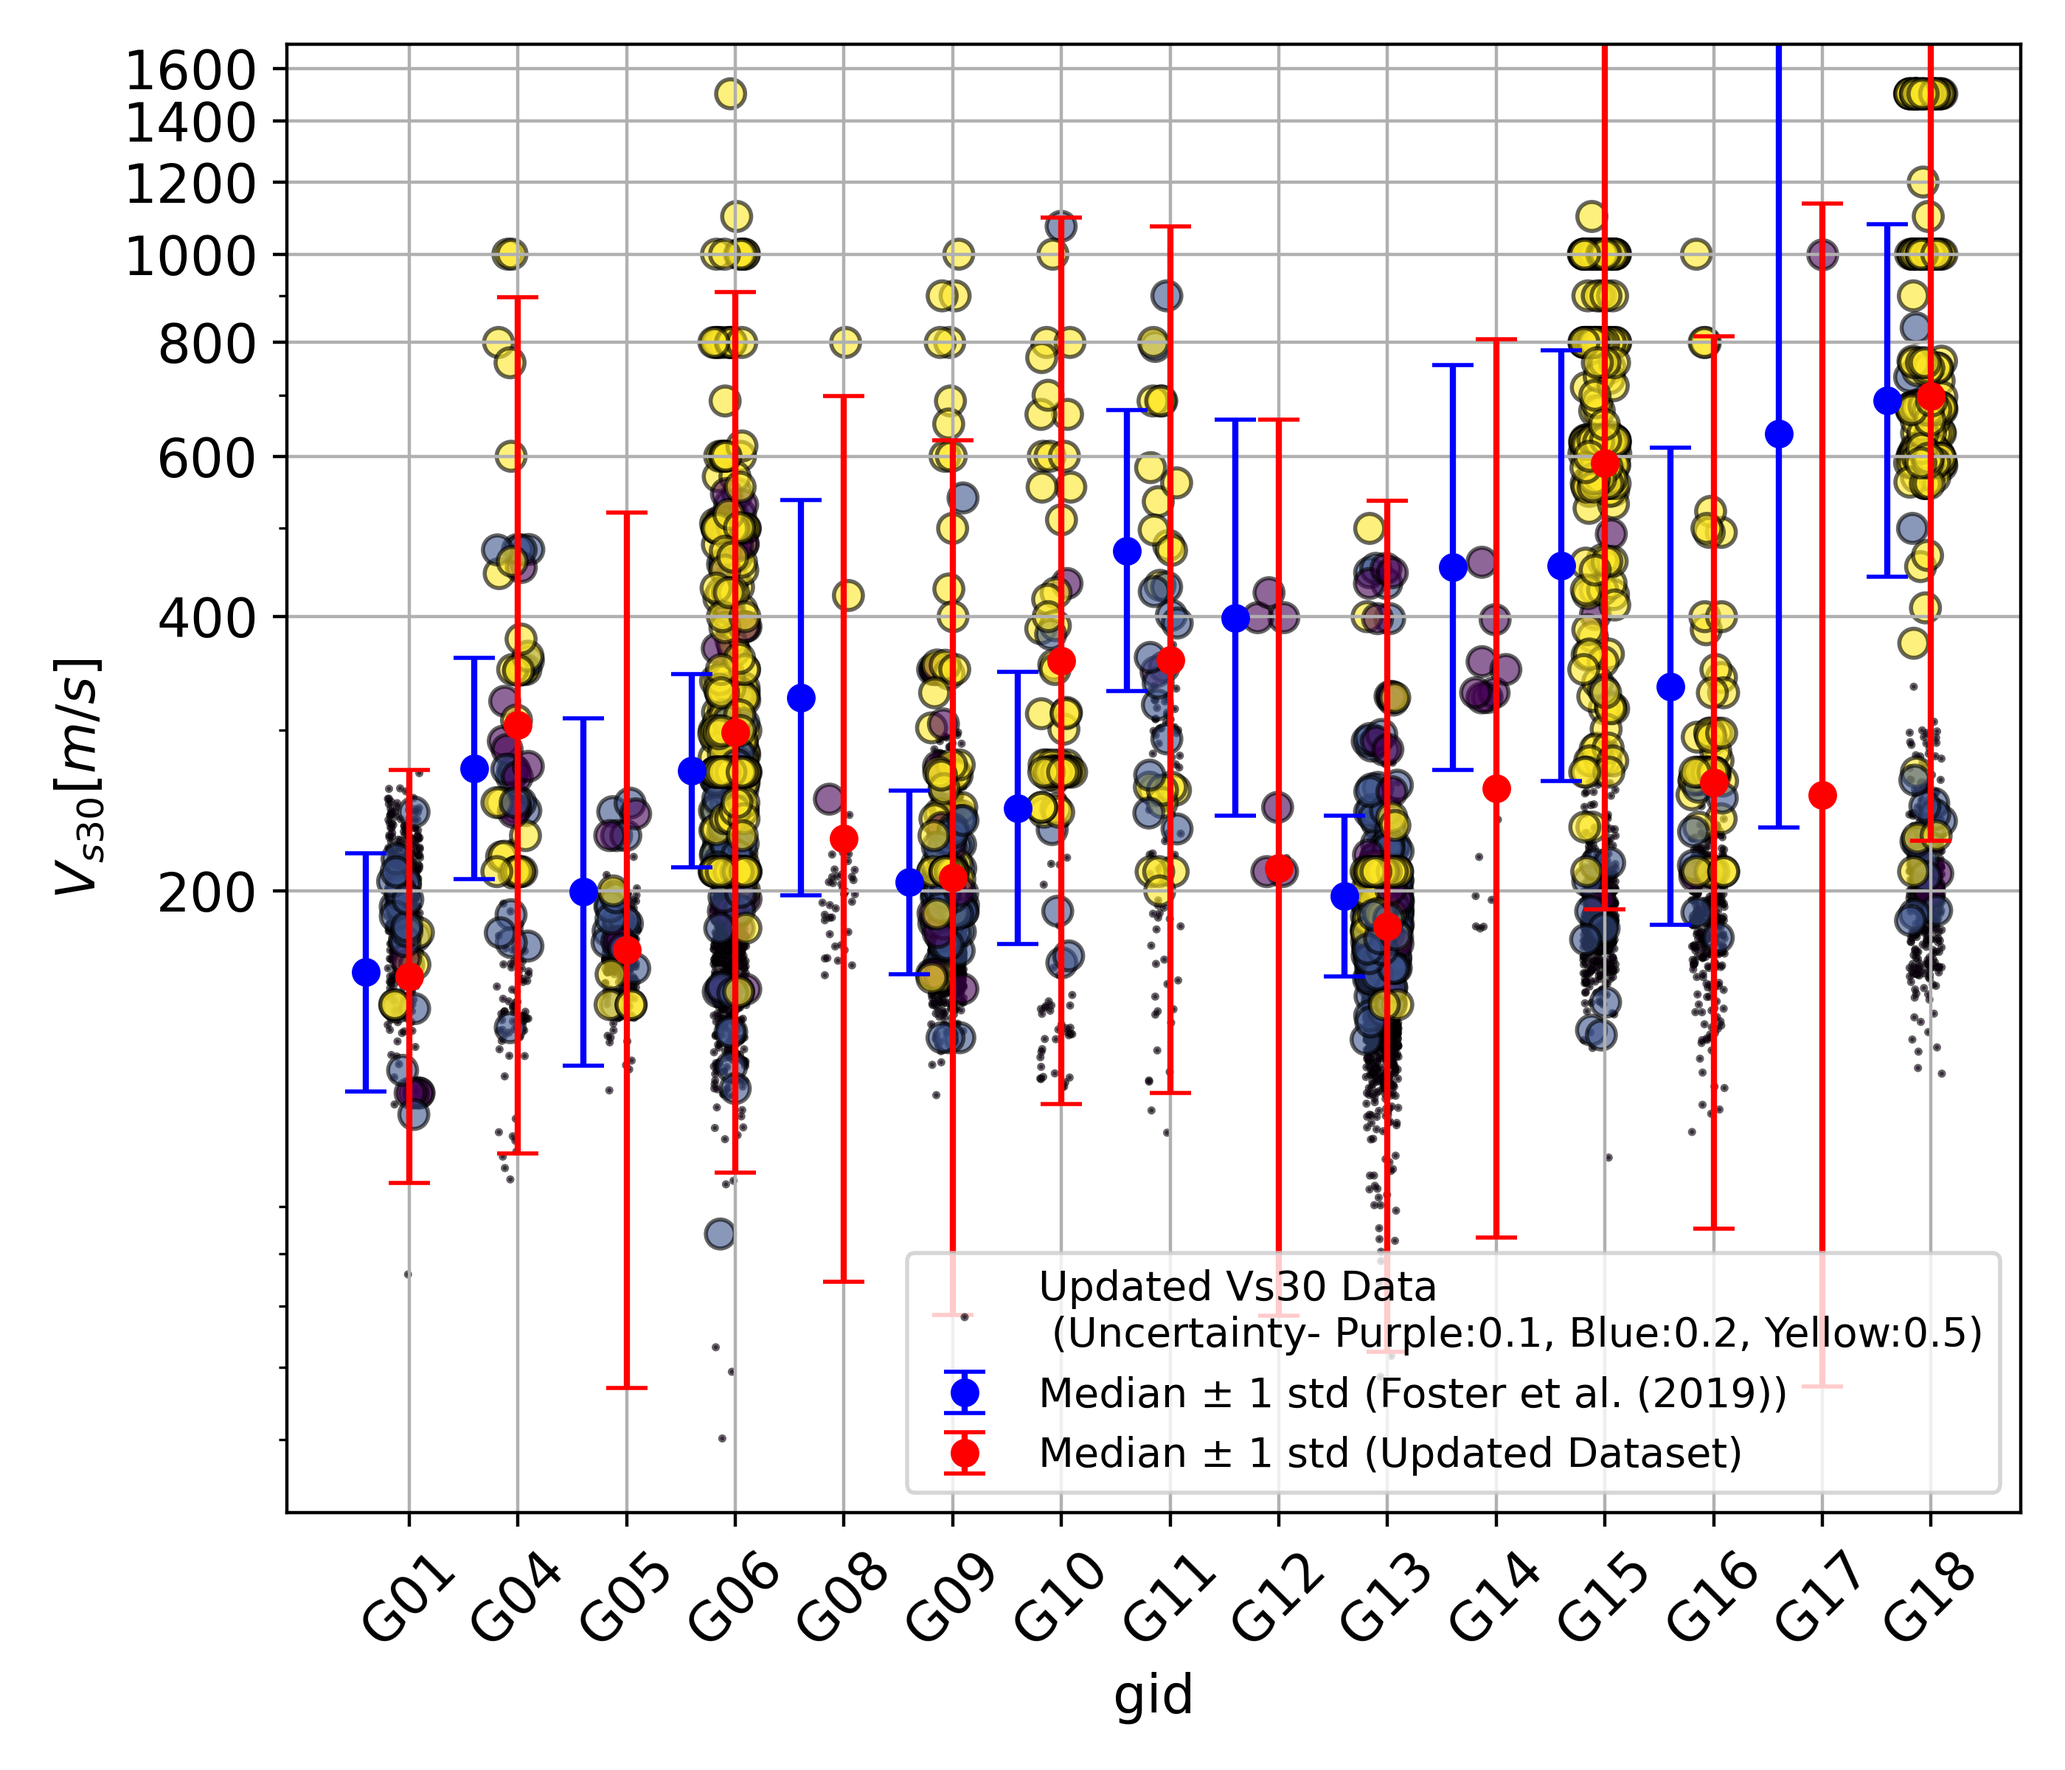
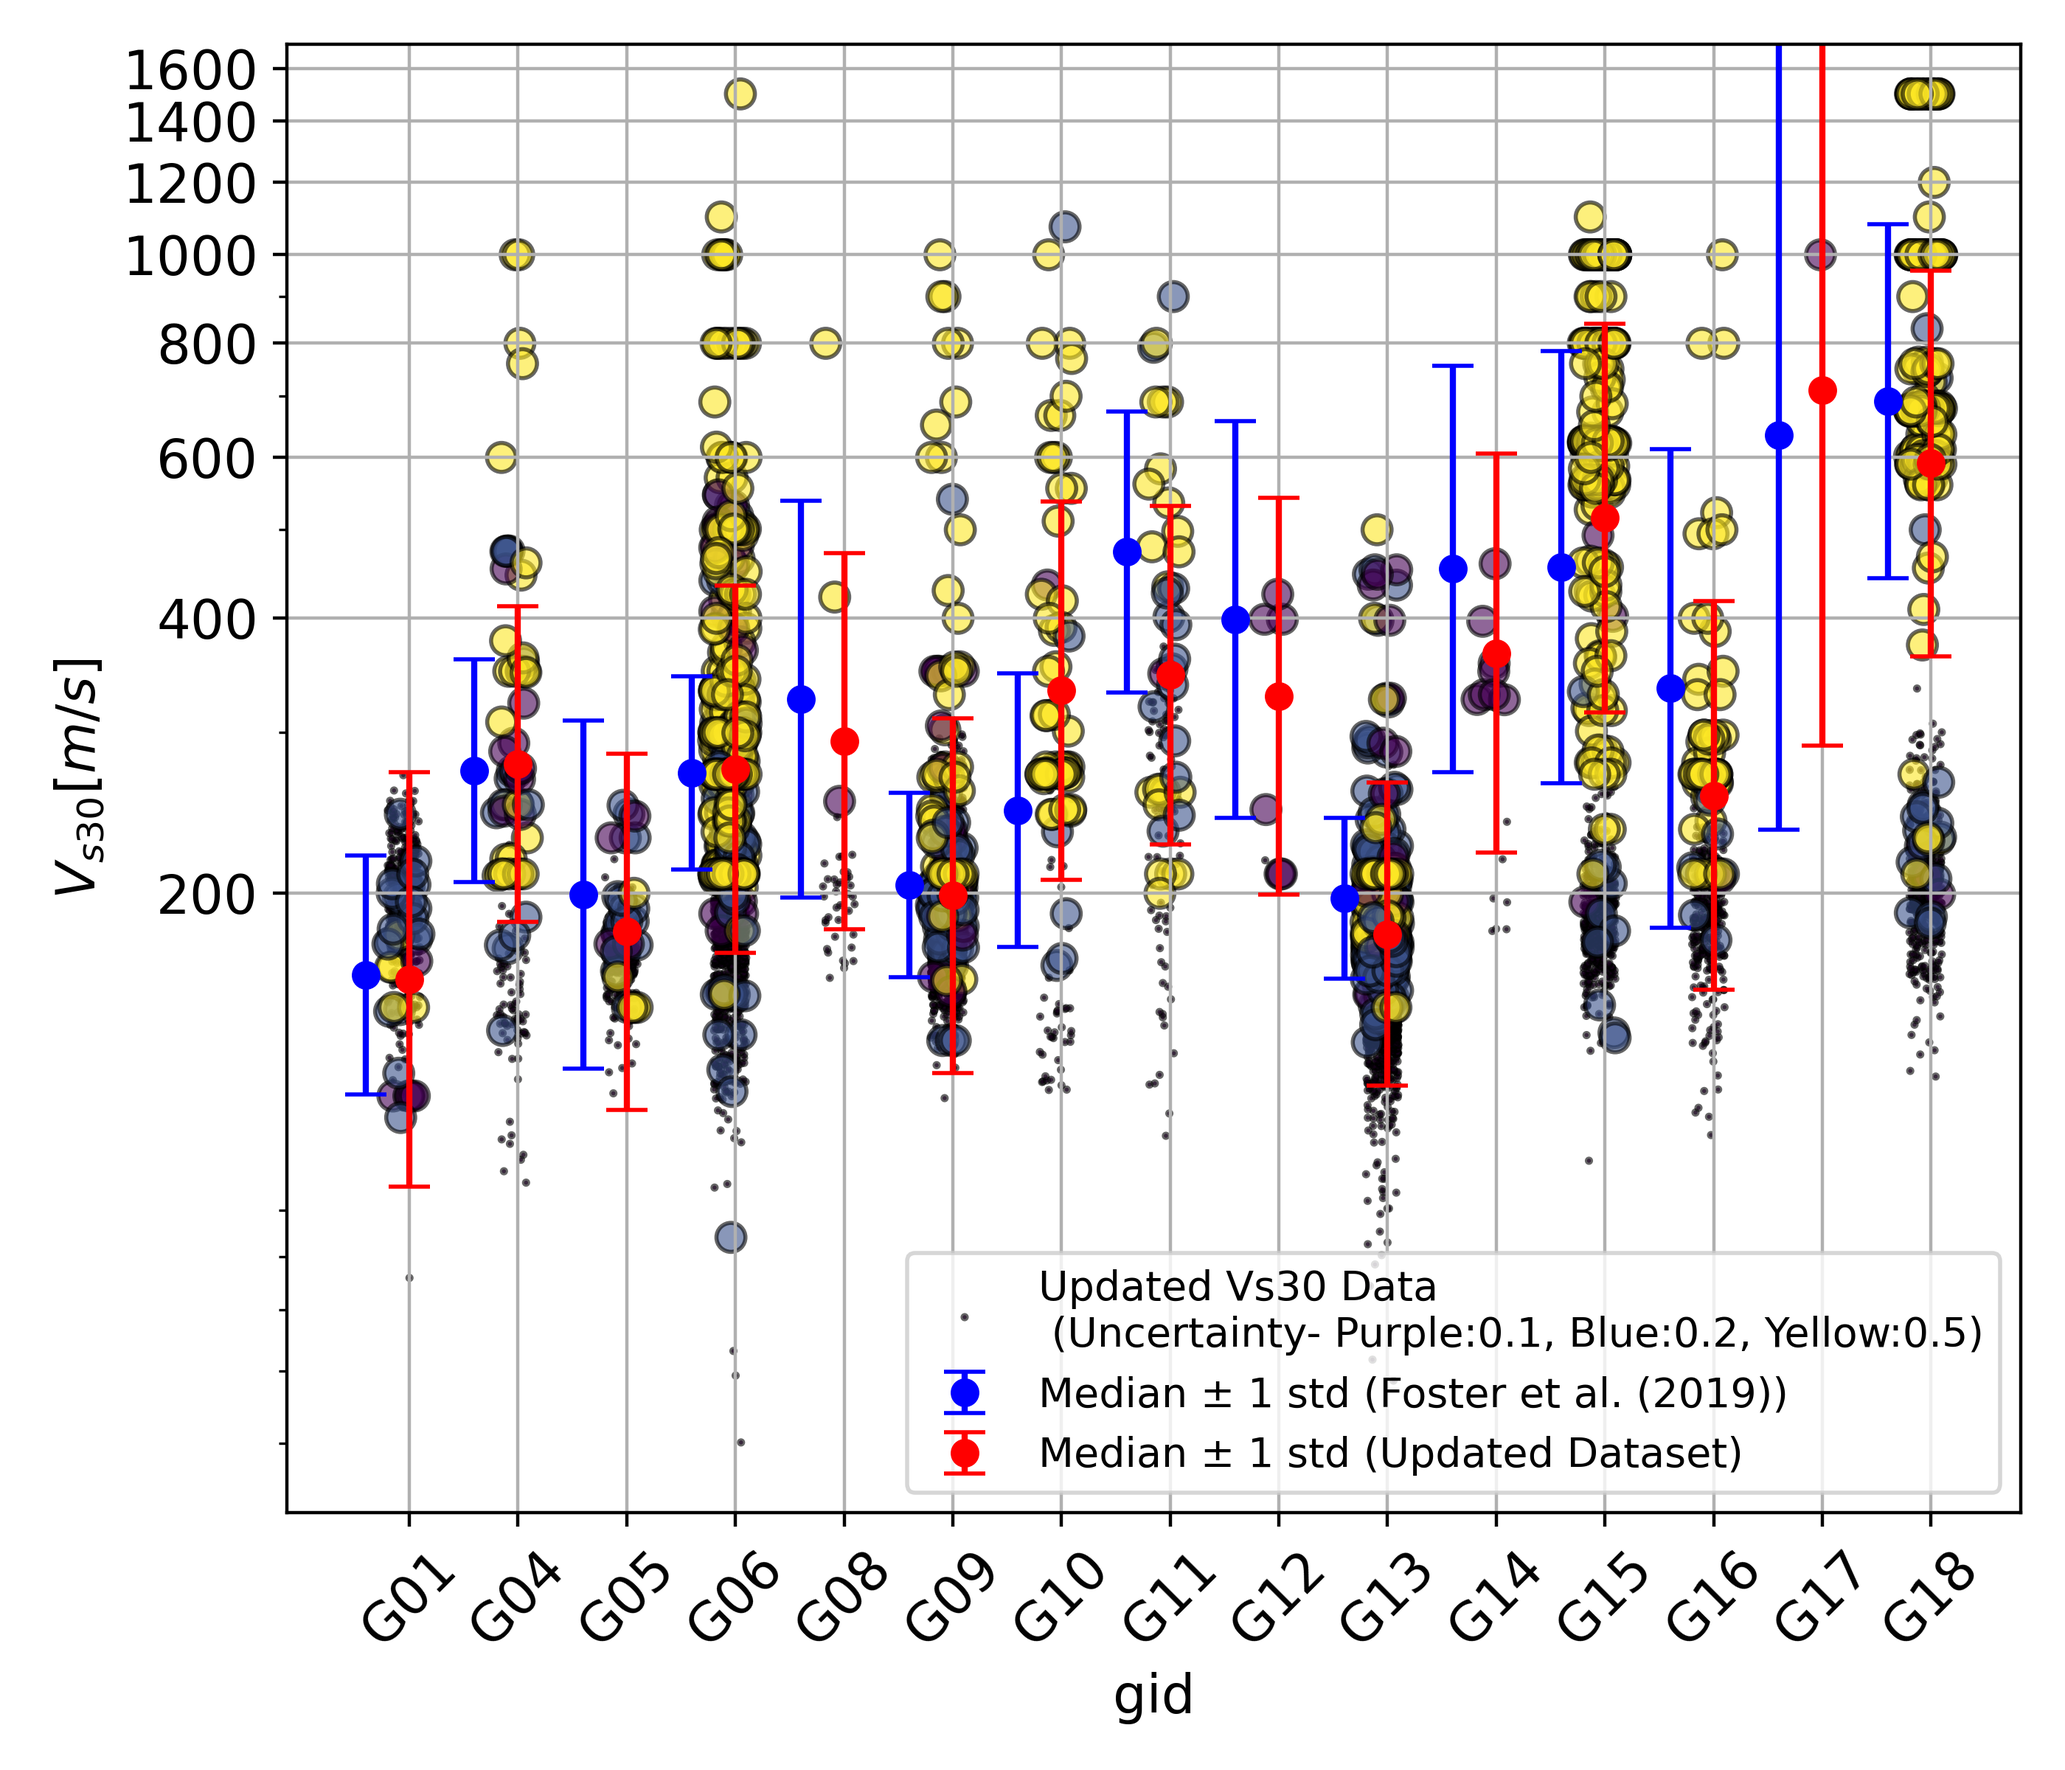
Personal

Changed region(s): [[0.1554, 0.0312, 0.9632, 0.7812], [0.6525, 0.75, 0.6836, 0.7812], [0.3418, 0.0312, 0.3729, 0.0625]]

diff --git a/vs30/Plots_1st/model.py b/vs30/Plots_1st/model.py
@@ -192,67 +192,44 @@ def cluster_update(prior, sites, letter):
     return posterior
 
 
-def print_calculation(step, term, current_value):
-    print(f"{step}: Adding {term} to {step}, current {step}={current_value}")
-
-def _new_var(sigma_0, n0, W, uncertainties, n, index):
-    numerator = (n0 * sigma_0 ** 2)
-    for i in range(1, n + 1):
-        term = W.iloc[i - 1] * (uncertainties.iloc[i - 1]) ** 2
-        numerator += term
-        if index == 13:
-            print_calculation("numerator", term, numerator)
-
-    denominator = n0
-    for i in range(1, n + 1):
-        term = W.iloc[i - 1]
-        denominator += term
-        if index == 13:
-            print_calculation("denominator", term, denominator)
-
-    log_result = numerator / denominator
-    result = log_result
-    if index == 13:
-        print(f"_new_var calculation: log_result={log_result}, result={result}")
-    return result
-
-def _new_mean(mu_0, n0, var, W, vs30_values, n, index):
-    numerator = (n0 * log(mu_0) / var)
-    for i in range(1, n + 1):
-        term = W.iloc[i - 1] * log(vs30_values.iloc[i - 1])
-        numerator += term / var
-        if index == 13:
-            print_calculation("numerator", term / var, numerator)
-    denominator = (n0 / var)
-    for i in range(1, n + 1):
-        term = W.iloc[i - 1]
-        denominator += term / var
-        if index == 13:
-            print_calculation("denominator", term / var, denominator)
-
+def _new_mean(mu_0, n0, sigma_0, var, y, n):
+    numerator = (n0 / var * log(mu_0) + log(y)*n / var)
+    denominator = (n0 / var + n / var)
     result = exp(numerator / denominator)
-    if index == 13:
-        print(f"_new_mean calculation: numerator={numerator}, denominator={denominator}, result={result}")
+    print(f"_new_mean calculation: numerator={numerator}, denominator={denominator}, result={result}, n0={n0}")
     return result
+
+def _new_var(sigma_0, n0, uncertainty, n):
+    result = (n0 * sigma_0 * sigma_0 + uncertainty * uncertainty) / (n0 +  n)
+    print(f"_new_var calculation: result={result}")
+    return result
+
 
 def posterior(model, sites, idcol, n_prior=3, min_sigma=0.5):
+    """
+    model: prior model
+    sites: sites containing vs30 and uncertainty
+    idcol: model ID column in sites
+    n_prior: assume prior model made up of n_prior measurements
+    min_sigma: minimum model_stdv allowed
+    """
+
+    # new model
     vs30 = model[:, 0]
     stdv = np.maximum(model[:, 1], min_sigma)
 
+    # loop through observed
     n0 = np.repeat(n_prior, len(model)).astype(float)
-    for m in range(len(model)):
+    for _, r in sites.iterrows():
+        m = r[idcol] # m 0...15
         if m == ID_NODATA or m == 0:
             continue
-        group = sites[sites[idcol] == m + 1]
-        if group.empty:
-            continue
-        group.loc[:, 'W'] = group['q'].apply(lambda x: 0.1 if x == 5 else 1)
-        print(f"Group weights (W): {group['W'].values}")
-
-        n = len(group)
-        var = _new_var(stdv[m], n0[m], group['W'], group['uncertainty'], n, m)
-        vs30[m] = _new_mean(vs30[m], n0[m], var, group['W'], group['vs30'], n, m)
+        m -= 1 # geology stdv, n0, vs30 are of size 15 (max index 14)
+        #print(r.q)
+        n = 0.1 if r.q == 5 else 1
+        var = _new_var(stdv[m], n0[m], r.uncertainty, n)
+        vs30[m] = _new_mean(vs30[m], n0[m], stdv[m], var, r.vs30, n)
         stdv[m] = sqrt(var)
-        n0[m] += group['W'].sum()
+        n0[m] += 0.1 if r.q == 5 else 1
 
     return np.column_stack((vs30, stdv))

diff --git a/CPT/bayesian_TID.py b/CPT/bayesian_TID.py
@@ -2,7 +2,7 @@ import numpy as np
 from pathlib import Path
 import matplotlib.pyplot as plt
 import pandas as pd
-from vs30 import model, model_terrain, sites_cluster
+from vs30 import model_3, model_terrain, sites_cluster
 
 terrain_ids = {
     1: ("T01", "T01"),
@@ -59,7 +59,7 @@ print(means_minus_1std)
 print(yerr2)
 
 vs30_terrain_id_df = vs30_terrain_id_df.rename(columns={"NZTM_X": "easting", "NZTM_Y": "northing", "Vs30": "vs30"})
-new_posterior = model.posterior(posterior, vs30_terrain_id_df, "tid")
+new_posterior = model_3.posterior(posterior, vs30_terrain_id_df, "tid")
 new_posterior_means = new_posterior.T[0]
 new_posterior_errors = new_posterior.T[1] * new_posterior_means
 upper_new_posterior_errors = new_posterior_errors + new_posterior_means
@@ -129,5 +129,5 @@ plt.grid(True)  # Add grid lines
 
 
 plt.tight_layout()
-plt.savefig('Updated_Tid3_CPT01.png', dpi=400)
+plt.savefig('Updated_Tid3_2ndCPT05.png', dpi=400)
 plt.show()

diff --git a/CPT/bayesian_GID.py b/CPT/bayesian_GID.py
@@ -121,7 +121,7 @@ yerr2 = [means_minus_1std, means_plus_1std]
 plt.xlabel('gid', fontsize=13)
 plt.ylabel(r'$V_{s30} [m/s]$', fontsize=13)
 xtick_labels = ['G01', 'G04', 'G05', 'G06', 'G08', 'G09', 'G10', 'G11', 'G12', 'G13', 'G14', 'G15', 'G16', 'G17', 'G18']
-
+print(np.exp(6.3))
 plt.xticks(ticks=np.arange(len(new_posterior_means))+0.2, labels=xtick_labels, fontsize=13, rotation=45)  # Rotate x-ticks by 90 degrees
 plt.legend()
 plt.yscale('log')
@@ -133,5 +133,5 @@ print(posterior)
 print(new_posterior)
 plt.grid(True)  # Add grid lines
 plt.tight_layout()
-plt.savefig('Updated_Gid3_incCPT05asd.png',dpi=400)
+plt.savefig('Updated_Gid3_2ndCPT01.png',dpi=400)
 plt.show()
